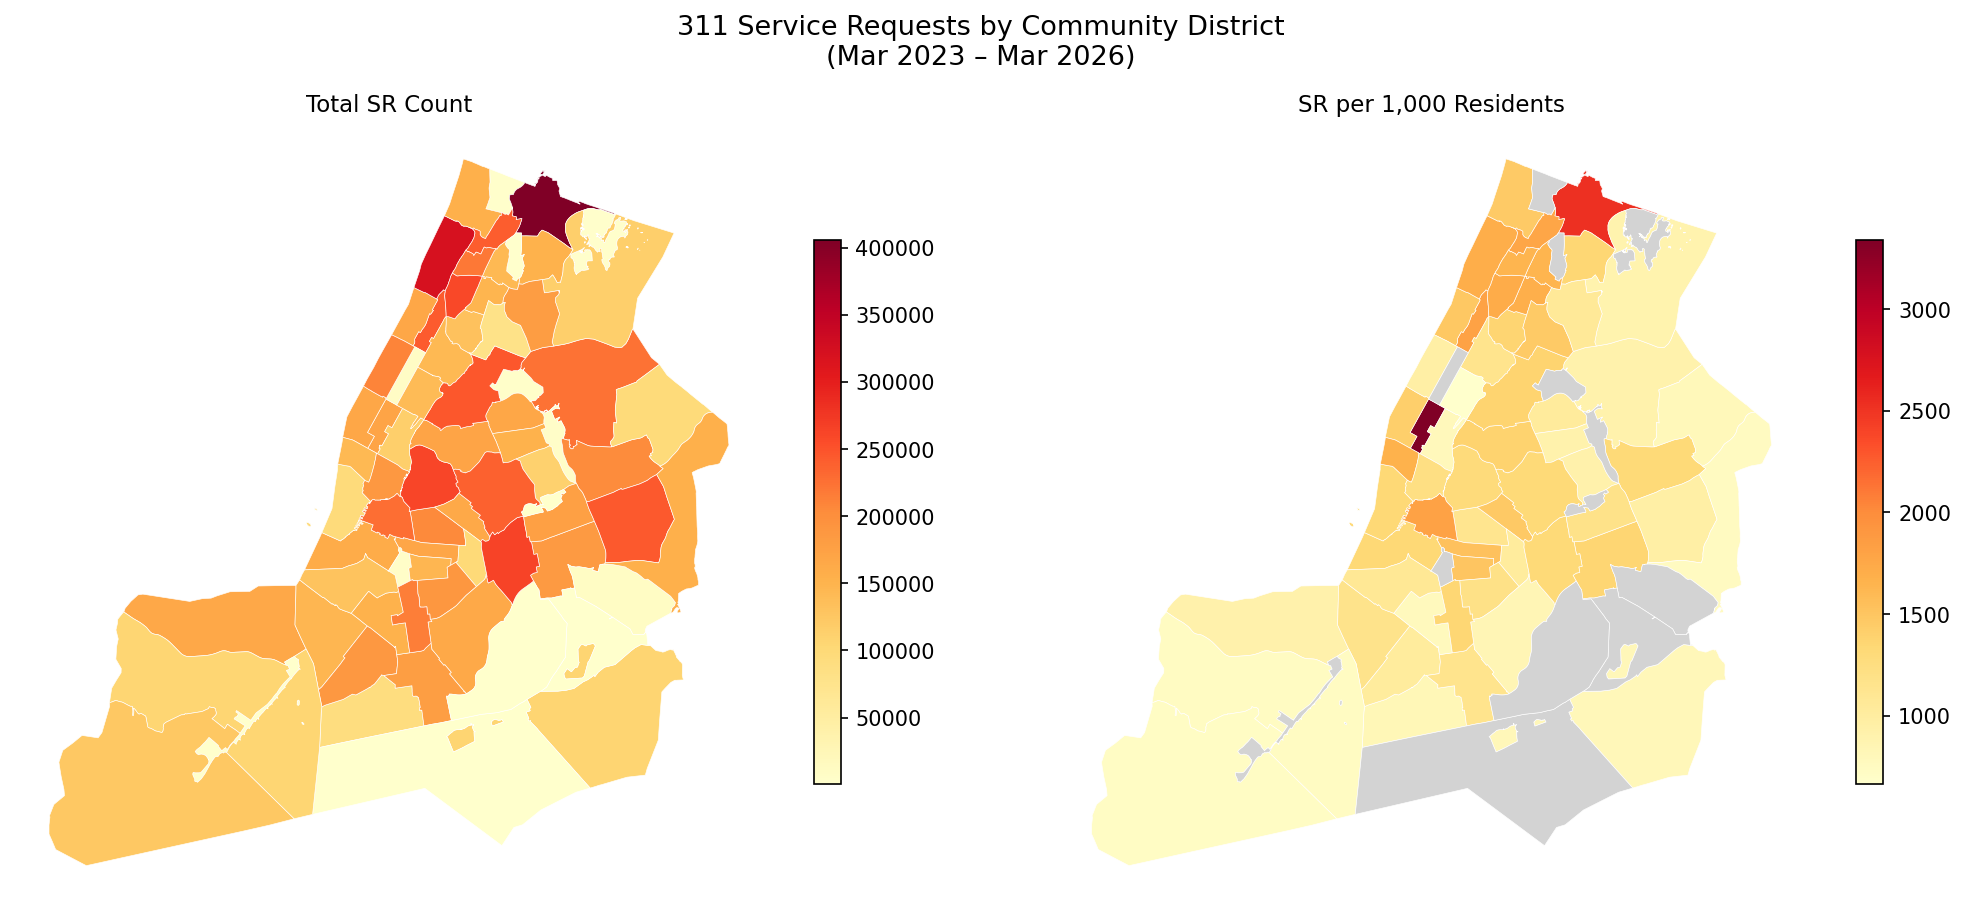
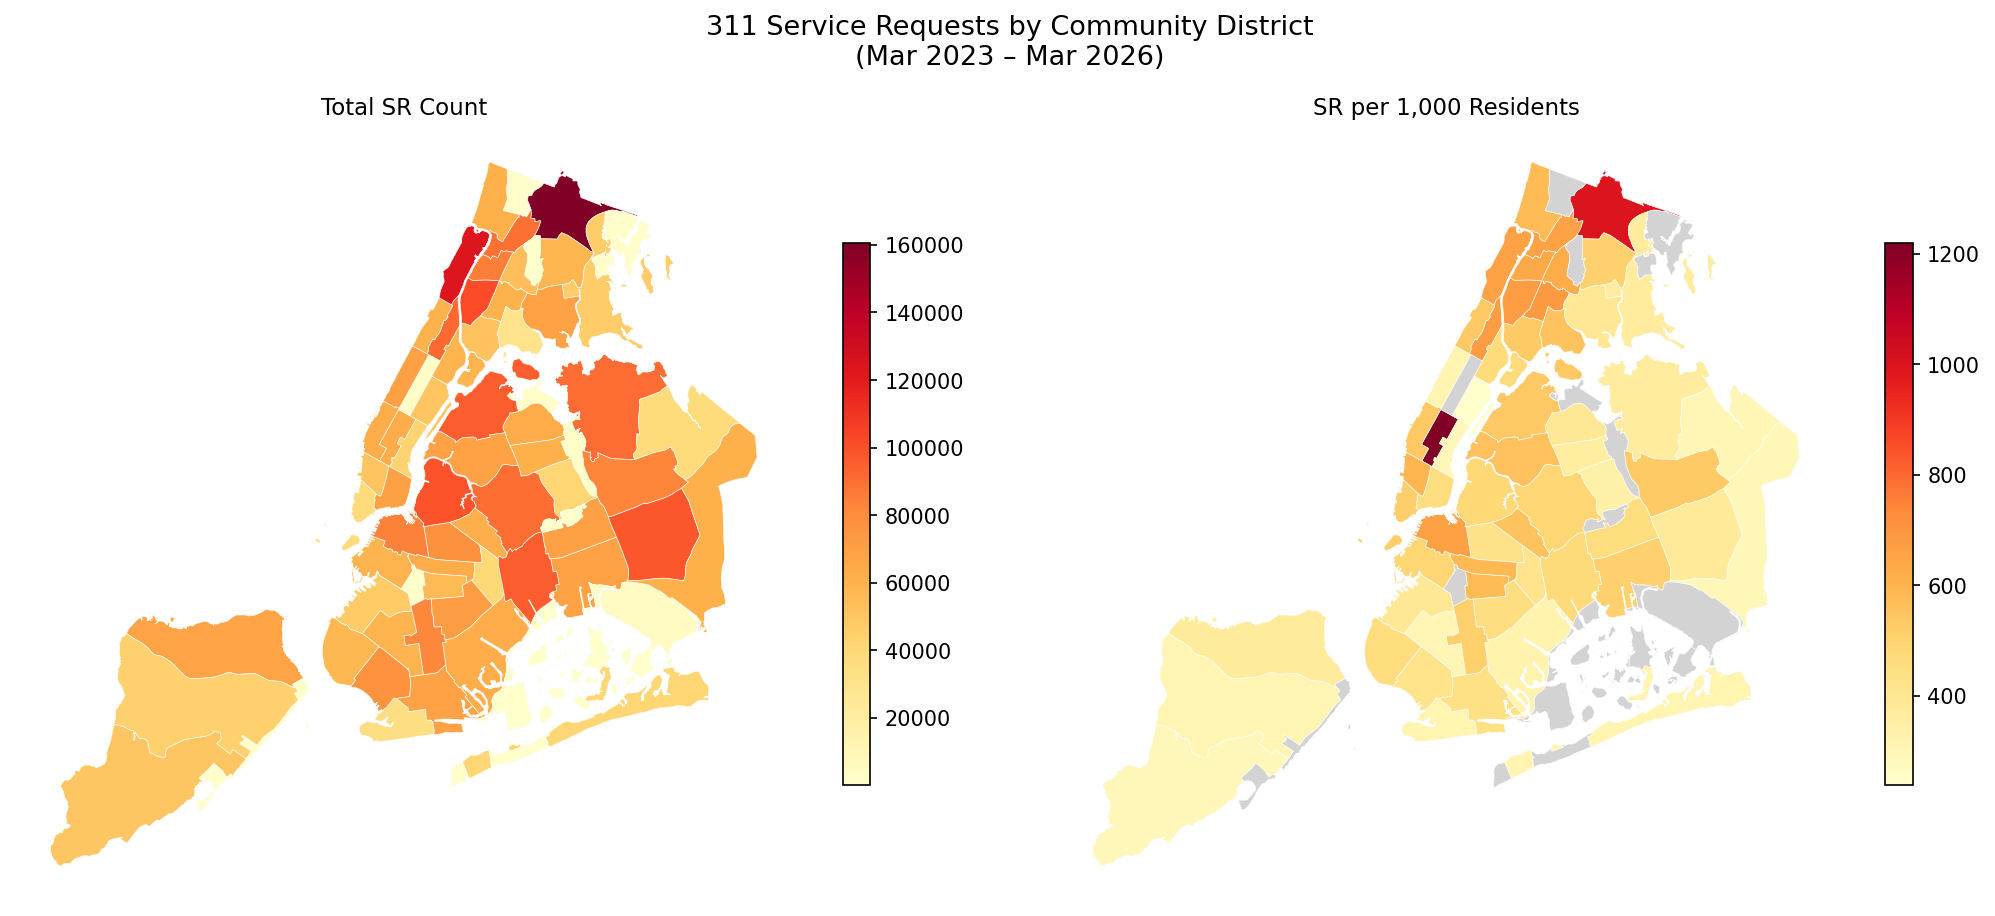
Check choropeth generation

diff --git a/src/dmo_311_quality/visualize/choropleth.py b/src/dmo_311_quality/visualize/choropleth.py
@@ -6,9 +6,46 @@ from matplotlib.axes import Axes
 from dmo_311_quality.extract.get_geo import get_cd_boundaries
 from dmo_311_quality.utils.config_paths import PROCESSED_DATA_DIR, ROOT_DIR
 
+from dmo_311_quality.transform.merge_311_acs import merge_311_acs
 # %%
 FIGURES_DIR = ROOT_DIR / 'output' / 'figures'
 
+## %%
+if __name__ == '__main__':
+    df_311 = pd.read_parquet(PROCESSED_DATA_DIR / '311_sr_counts.parquet')
+    df_acs = pd.read_parquet(PROCESSED_DATA_DIR / 'acs_cd_demographic.parquet')
+
+    cd_gdf = get_cd_boundaries()
+
+# %%
+
+def sr_per_1k(df_311, df_acs, start_date: str = '2025-03', end_date: str = '2026-03') -> pd.DataFrame:
+    """Calculate 311 service requests per 1,000 residents."""
+    start = int(start_date.replace('-', ''))
+    end = int(end_date.replace('-', ''))
+    keep_row = df_311['year'] * 100 + df_311['month']
+    df = (
+        df_311.loc[keep_row.between(start, end)]
+        .groupby('community_board')['sr_count']
+        .sum()
+    )
+
+    df = merge_311_acs(df, df_acs, acs_cols=['Pop_1E'], validate='1:1')
+    df['sr_per_1k'] = df['sr_count'] / df['Pop_1E'] * 1000
+    return df
+
+if __name__ == '__main__':
+    df = sr_per_1k(df_311, df_acs)
+    
+# %%
+
+def gdf_per_1k(gdf, sr_df):
+    """Merge sr_per_1k values into the GeoDataFrame."""
+    gdf = gdf.merge(sr_df[['community_board', 'sr_per_1k', 'sr_count']], on='community_board', how='left')
+    return gdf
+
+if __name__ == '__main__':
+    gdf = gdf_per_1k(cd_gdf, df)
 
 # %%
 def make_choropleth(
@@ -27,6 +64,9 @@ def make_choropleth(
         ax: Matplotlib Axes to draw on.
         cmap: Colormap name (default: 'YlOrRd').
     """
+
+    # Base layer for missing data
+    gdf.plot(color='gray', edgecolor='white', linewidth=0.3, alpha=0.3, ax=ax) 
     gdf.plot(
         column=column,
         ax=ax,
@@ -43,32 +83,6 @@ def make_choropleth(
 
 # %%
 if __name__ == '__main__':
-    # Test make_choropleth with a simple column on the boundary GeoDataFrame
-    import numpy as np
-
-    gdf_test = get_cd_boundaries()
-    gdf_test['dummy'] = np.random.default_rng(seed=0).integers(0, 100, len(gdf_test))
-
-    fig, ax = plt.subplots(figsize=(5, 5))
-    make_choropleth(gdf_test, 'dummy', 'Dummy values (smoke test)', ax)
-    plt.tight_layout()
-    plt.show()
-
-
-# %%
-if __name__ == '__main__':
-    # Full pipeline: load data, merge, compute per-capita, plot and save
-    df_311 = pd.read_parquet(PROCESSED_DATA_DIR / '311_totals.parquet')
-    df_acs = pd.read_parquet(PROCESSED_DATA_DIR / 'acs_cd_demographic.parquet')
-
-    df = df_311.merge(df_acs[['community_board', 'Pop_1E']], on='community_board', how='left')
-    df['sr_count'] = pd.to_numeric(df['sr_count'])
-    df['Pop_1E'] = pd.to_numeric(df['Pop_1E'])
-    df['sr_per_1k'] = df['sr_count'] / df['Pop_1E'] * 1000
-
-    gdf = get_cd_boundaries()
-    gdf = gdf.merge(df, on='community_board', how='left')
-    gdf = gdf[gdf['sr_count'].notna()].copy()
 
     fig, axes = plt.subplots(1, 2, figsize=(14, 6))
     fig.suptitle(
@@ -86,3 +100,5 @@ if __name__ == '__main__':
     out_path = FIGURES_DIR / 'choropleth_311_acs.png'
     fig.savefig(out_path, dpi=150, bbox_inches='tight')
     print(f'Saved figure to {out_path}')
+
+# %%

diff --git a/src/dmo_311_quality/transform/merge_311_acs.py b/src/dmo_311_quality/transform/merge_311_acs.py
@@ -3,21 +3,26 @@ import pandas as pd
 
 from dmo_311_quality.utils.config_paths import PROCESSED_DATA_DIR
 
+
 if __name__ == '__main__':
-    df_311 = pd.read_parquet(PROCESSED_DATA_DIR / '311_raw.parquet')
+    df_311 = pd.read_parquet(PROCESSED_DATA_DIR / '311_sr_counts.parquet')
     df_acs = pd.read_parquet(PROCESSED_DATA_DIR / 'acs_cd_demographic.parquet')
 
-# %%
 
-keep_row = (
-    df['']
-)
+    keep_row = (
+        (df_311['year'] * 100 + df_311['month'] >= 202503)
+        & (df_311['year'] * 100 + df_311['month'] <= 202603)
+    )
+    df_311 = df_311.loc[keep_row].groupby('community_board')['sr_count'].sum()
 
 # %%
 
 def merge_311_acs(
     df_311: pd.DataFrame,
     df_acs: pd.DataFrame,
+    acs_cols = ['Pop_1E', 'Borough'],
+    validate = '1:1',
+    print_unmatched: bool = False,
 ) -> pd.DataFrame:
     """Left-join 311 service request data with ACS demographic data.
 
@@ -27,17 +32,20 @@ def merge_311_acs(
     Args:
         df_311: 311 service request counts with a community_board column.
         df_acs: ACS demographic data with a community_board column.
+        acs_cols: List of ACS columns to include in the merge.
+        validate: String to pass to pd.merge's validate parameter.
+        print_unmatched: Whether to print unmatched 311 community boards.
 
     Returns:
         Merged DataFrame with all 311 rows and ACS columns appended.
     """
     merged = pd.merge(
         left=df_311,
-        right=df_acs, 
+        right=df_acs[acs_cols + ['community_board']], 
         on='community_board', 
         how='left',
-        validate='m:1',
-        indicator=True
+        validate=validate,
+        # indicator=True
     )
 
     # Report on unmatched 311 community boards
@@ -53,10 +61,10 @@ def merge_311_acs(
 
 if __name__ == '__main__':
 
-    merged = merge_311_acs(df_311, df_acs)
+    merged = merge_311_acs(df_311, df_acs, print_unmatched=True)
 
-    out_path = PROCESSED_DATA_DIR / '311_acs_merged.parquet'
-    merged.to_parquet(out_path, index=False, engine='fastparquet')
-    print(f'Saved {len(merged):,} rows to {out_path}')
+    # out_path = PROCESSED_DATA_DIR / '311_acs_merged.parquet'
+    # merged.to_parquet(out_path, index=False, engine='fastparquet')
+    # print(f'Saved {len(merged):,} rows to {out_path}')
 
 # %%

diff --git a/src/dmo_311_quality/extract/get_geo.py b/src/dmo_311_quality/extract/get_geo.py
@@ -7,7 +7,7 @@ from dmo_311_quality.utils.socrata import socrata_api_query
 
 # %%
 # NYC Open Data dataset ID for community district boundaries
-CD_BOUNDARIES_DATASET = '6ak9-vek3'
+CD_BOUNDARIES_DATASET = '5crt-au7u'
 
 # Maps the leading digit of boro_cd to the borough name used in community_board
 BORO_CD_MAP: dict[str, str] = {
@@ -56,7 +56,7 @@ if __name__ == '__main__':
 def get_cd_boundaries() -> gpd.GeoDataFrame:
     """Fetch NYC community district boundary polygons from NYC Open Data.
 
-    Queries dataset 6ak9-vek3, parses GeoJSON geometry, and builds a
+    Queries dataset 5crt-au7u, parses GeoJSON geometry, and builds a
     community_board join key matching the 311 dataset format.
 
     Returns:

diff --git a/src/dmo_311_quality/extract/run_extract.py b/src/dmo_311_quality/extract/run_extract.py
@@ -98,3 +98,5 @@ def main() -> None:
 # %%
 if __name__ == '__main__':
     main()
+
+# %%
